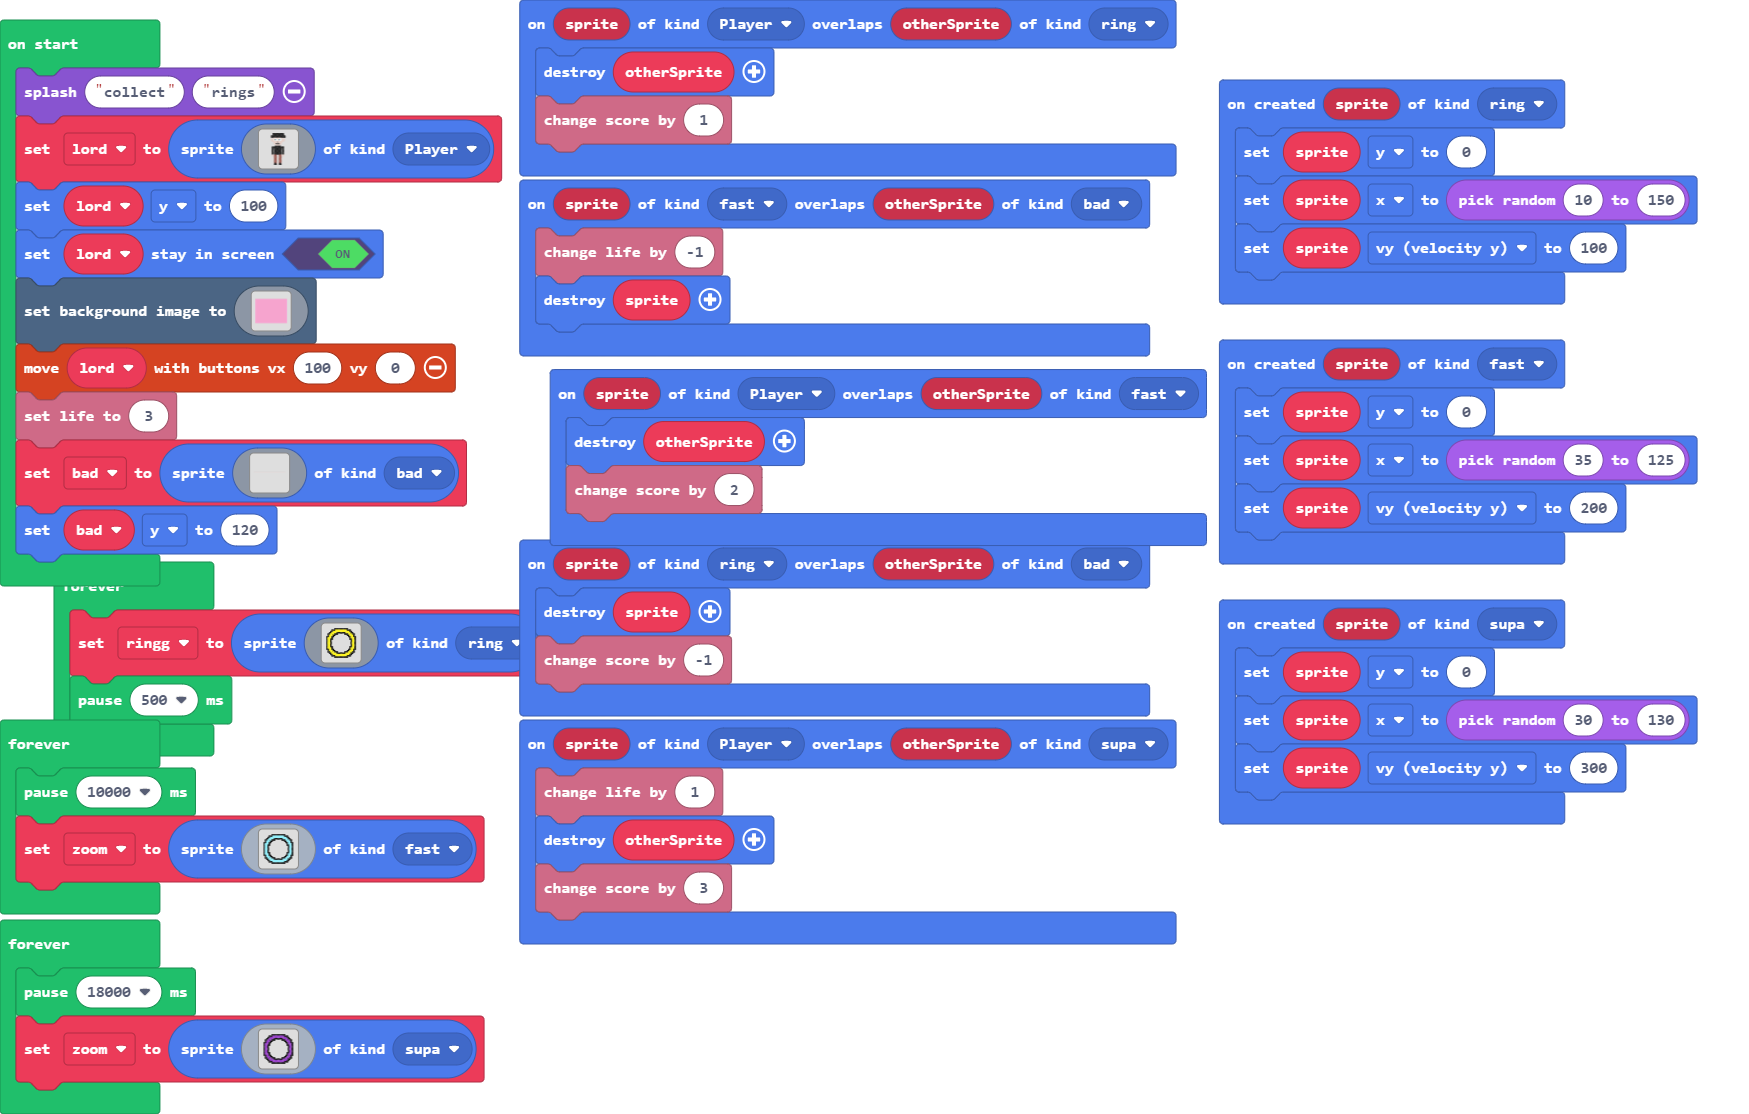
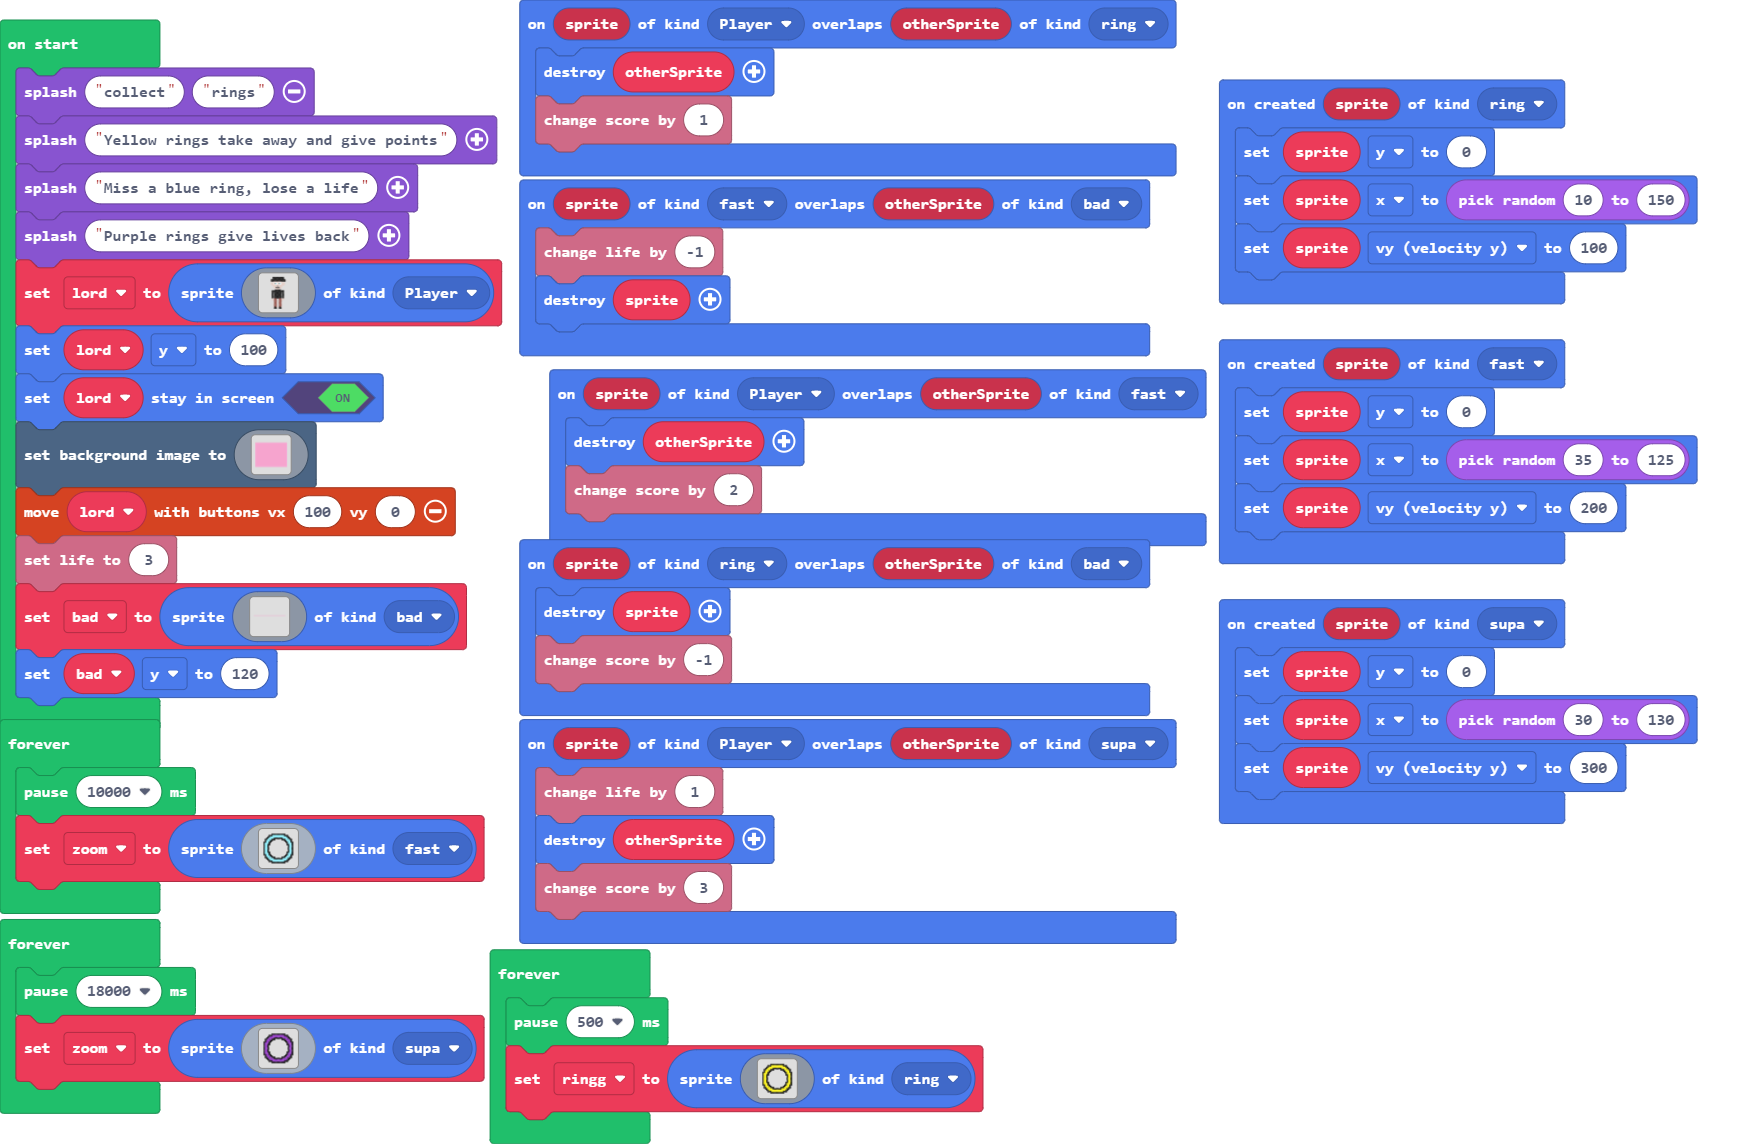
added rules

diff --git a/main.ts b/main.ts
@@ -40,9 +40,12 @@ sprites.onOverlap(SpriteKind.fast, SpriteKind.bad, function (sprite, otherSprite
     info.changeLifeBy(-1)
     sprite.destroy()
 })
-let zoom: Sprite = null
 let ringg: Sprite = null
+let zoom: Sprite = null
 game.splash("collect", "rings")
+game.splash("Yellow rings take away and give points")
+game.splash("Miss a blue ring, lose a life")
+game.splash("Purple rings give lives back")
 let lord = sprites.create(img`
     ....ffffffffffffff...
     ....ffffffffffffff...
@@ -212,39 +215,9 @@ scene.setBackgroundImage(img`
 controller.moveSprite(lord, 100, 0)
 info.setLife(3)
 let bad = sprites.create(img`
-    d d d d d d d d d d d d d d d d d d d d d d d d d d d d d d d d d d d d d d d d d d d d d d d d d d d d d d d d d d d d d d d d d d d d d d d d d d d d d d d d d d d d d d d d d d d d d d d d d d d d d d d d d d d d d d d d d d d d d d d d d d d d d d d d d d d d d d d d d d d d d d d d d d d d d d d d d d d d d d d d 
+    3 3 3 3 3 3 3 3 3 3 3 3 3 3 3 3 3 3 3 3 3 3 3 3 3 3 3 3 3 3 3 3 3 3 3 3 3 3 3 3 3 3 3 3 3 3 3 3 3 3 3 3 3 3 3 3 3 3 3 3 3 3 3 3 3 3 3 3 3 3 3 3 3 3 3 3 3 3 3 3 3 3 3 3 3 3 3 3 3 3 3 3 3 3 3 3 3 3 3 3 3 3 3 3 3 3 3 3 3 3 3 3 3 3 3 3 3 3 3 3 3 3 3 3 3 3 3 3 3 3 3 3 3 3 3 3 3 3 3 3 3 3 3 3 3 3 3 3 3 3 3 3 3 3 3 3 3 3 3 3 
     `, SpriteKind.bad)
 bad.y = 120
-forever(function () {
-    ringg = sprites.create(img`
-        .........................
-        .......fffffffffff.......
-        .....fff555555555fff.....
-        ....ff5555555555555ff....
-        ...ff5555fffffff5555ff...
-        ..ff555fff.....fff555ff..
-        ..f555ff.........ff555f..
-        .ff55ff...........ff55ff.
-        .f555f.............f555f.
-        .f55ff.............ff55f.
-        .f55f...............f55f.
-        .f55f...............f55f.
-        .f55f...............f55f.
-        .f55f...............f55f.
-        .f55f...............f55f.
-        .f55ff.............ff55f.
-        .f555f.............f555f.
-        .ff55ff...........ff55ff.
-        ..f555ff.........ff555f..
-        ..ff555fff.....fff555ff..
-        ...ff5555fffffff5555ff...
-        ....ff5555555555555ff....
-        .....fff555555555fff.....
-        .......fffffffffff.......
-        .........................
-        `, SpriteKind.ring)
-    pause(500)
-})
 forever(function () {
     pause(10000)
     zoom = sprites.create(img`
@@ -304,4 +277,34 @@ forever(function () {
         .......fffffffffff.......
         .........................
         `, SpriteKind.supa)
+})
+forever(function () {
+    pause(500)
+    ringg = sprites.create(img`
+        .........................
+        .......fffffffffff.......
+        .....fff555555555fff.....
+        ....ff5555555555555ff....
+        ...ff5555fffffff5555ff...
+        ..ff555fff.....fff555ff..
+        ..f555ff.........ff555f..
+        .ff55ff...........ff55ff.
+        .f555f.............f555f.
+        .f55ff.............ff55f.
+        .f55f...............f55f.
+        .f55f...............f55f.
+        .f55f...............f55f.
+        .f55f...............f55f.
+        .f55f...............f55f.
+        .f55ff.............ff55f.
+        .f555f.............f555f.
+        .ff55ff...........ff55ff.
+        ..f555ff.........ff555f..
+        ..ff555fff.....fff555ff..
+        ...ff5555fffffff5555ff...
+        ....ff5555555555555ff....
+        .....fff555555555fff.....
+        .......fffffffffff.......
+        .........................
+        `, SpriteKind.ring)
 })
